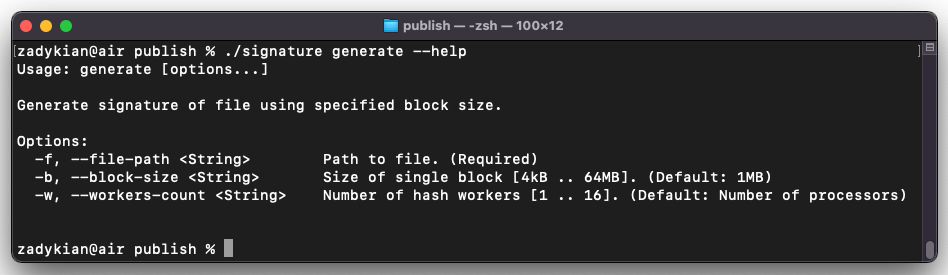
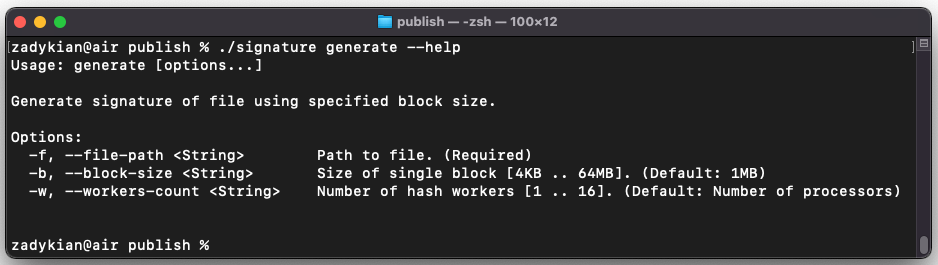
Version -> AssemblyVersion kb -> KB

Changed region(s): [[0.0, 0.0, 1.0, 1.0]]

diff --git a/src/FileSignature.App/AppCommands.cs b/src/FileSignature.App/AppCommands.cs
@@ -35,7 +35,7 @@ internal class AppCommands : ConsoleAppBase
 	public void GenerateSignature(
 		[Option(shortName: "f", "Path to file.")]
 		string filePath,
-		[Option(shortName: "b", "Size of single block [4kB .. 64MB].")]
+		[Option(shortName: "b", "Size of single block [4KB .. 64MB].")]
 		string blockSize = "1MB",
 		[Option(shortName: "w", "Number of hash workers [1 .. 16].", DefaultValue = "Number of processors")]
 		string? workersCount = null)
@@ -74,7 +74,7 @@ internal class AppCommands : ConsoleAppBase
 			(() => Memory.TryParse(blockSize, out _),
 				"Block size is not a valid memory value."),
 			(() => Memory.TryParse(blockSize, out var b) && b.Value.Between(4 * Memory.Kilobyte, 64 * Memory.Megabyte),
-				"Block size value must belong to range [4kB .. 64MB]."),
+				"Block size value must belong to range [4KB .. 64MB]."),
 			(() => workersCount is null || int.TryParse(workersCount, out _),
 				"Workers count value must be a positive integer."),
 			(() => workersCount is null || int.TryParse(workersCount, out var w) && w.Between(1, 16),

diff --git a/readme.md b/readme.md
@@ -11,7 +11,8 @@ dotnet publish src/FileSignature.App --configuration release --runtime [win-x64|
 Signature app has a convenient command-line interface. To display information about usage, execute `--help` command.
 ![example](./docs/cli-example.png)
 
-`generate` command produces list of SHA256 hash codes - one for each segment of specified file.
+Command `generate` produces list of SHA256 hash codes - one for each bloke (segment) of specified file.  
+Important note: here **1KB = 1024B**, **1MB = 1024KB**.
 
 #### LogLevel can be changed via environment variable:
 ```
